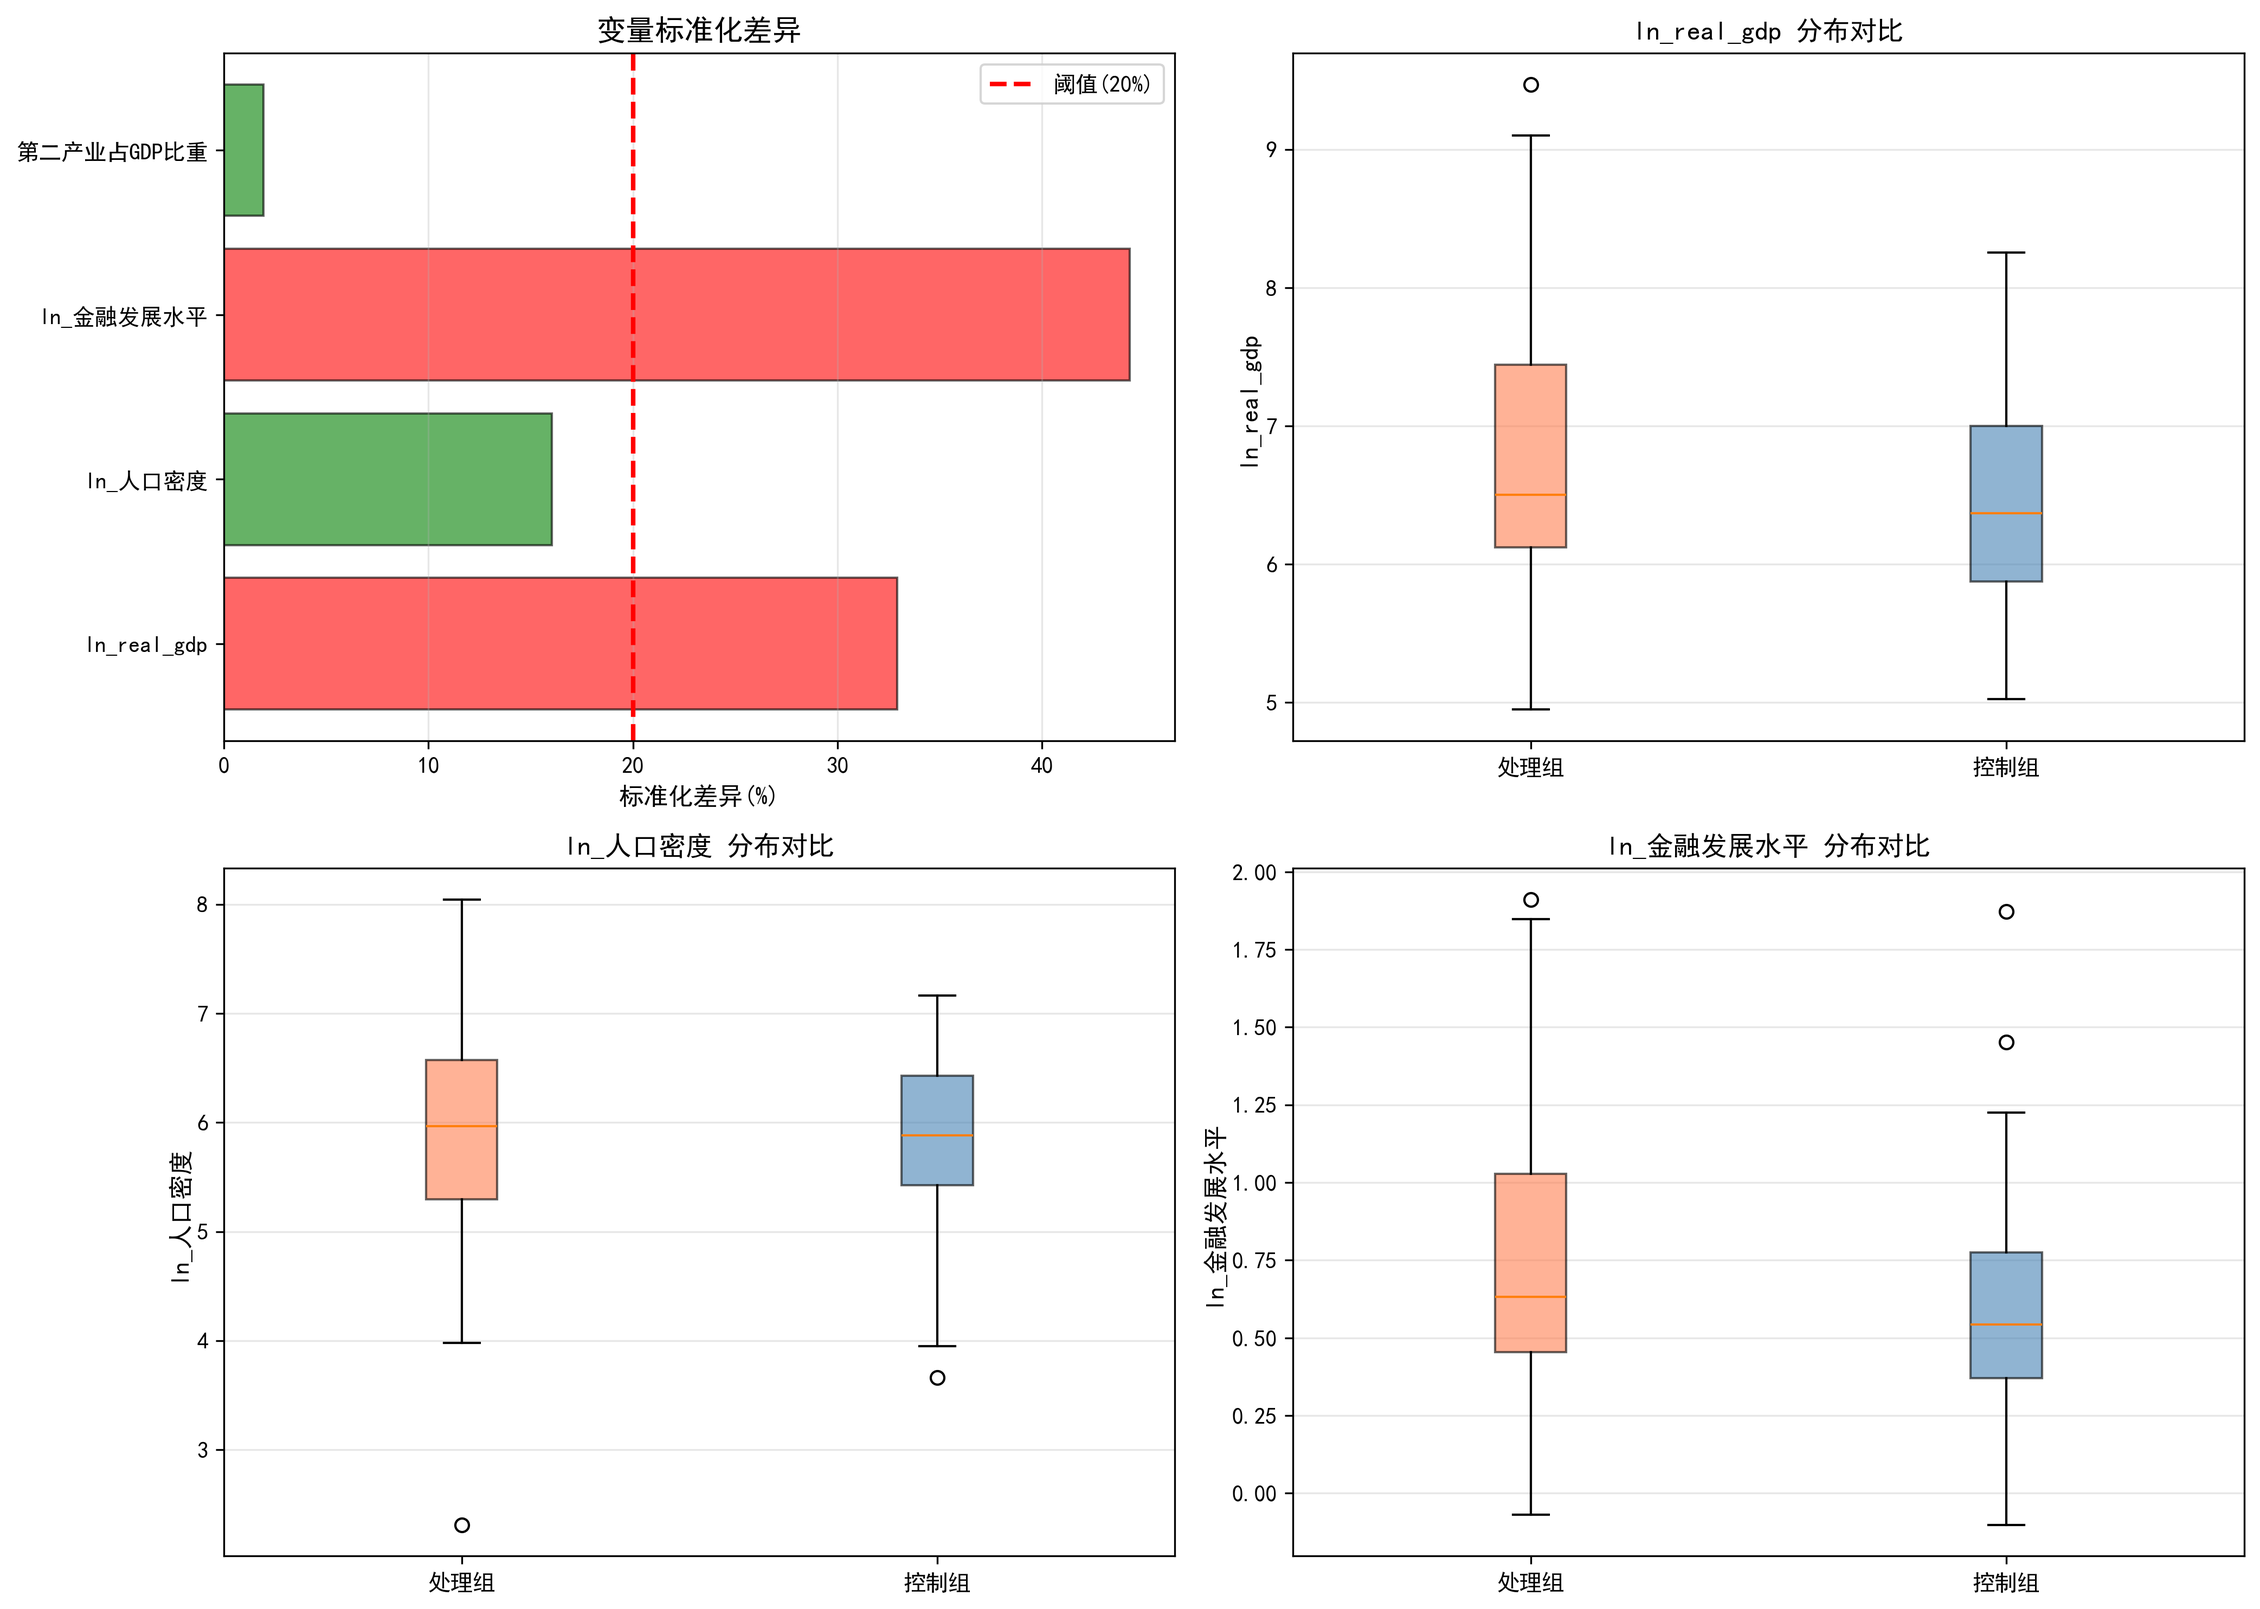
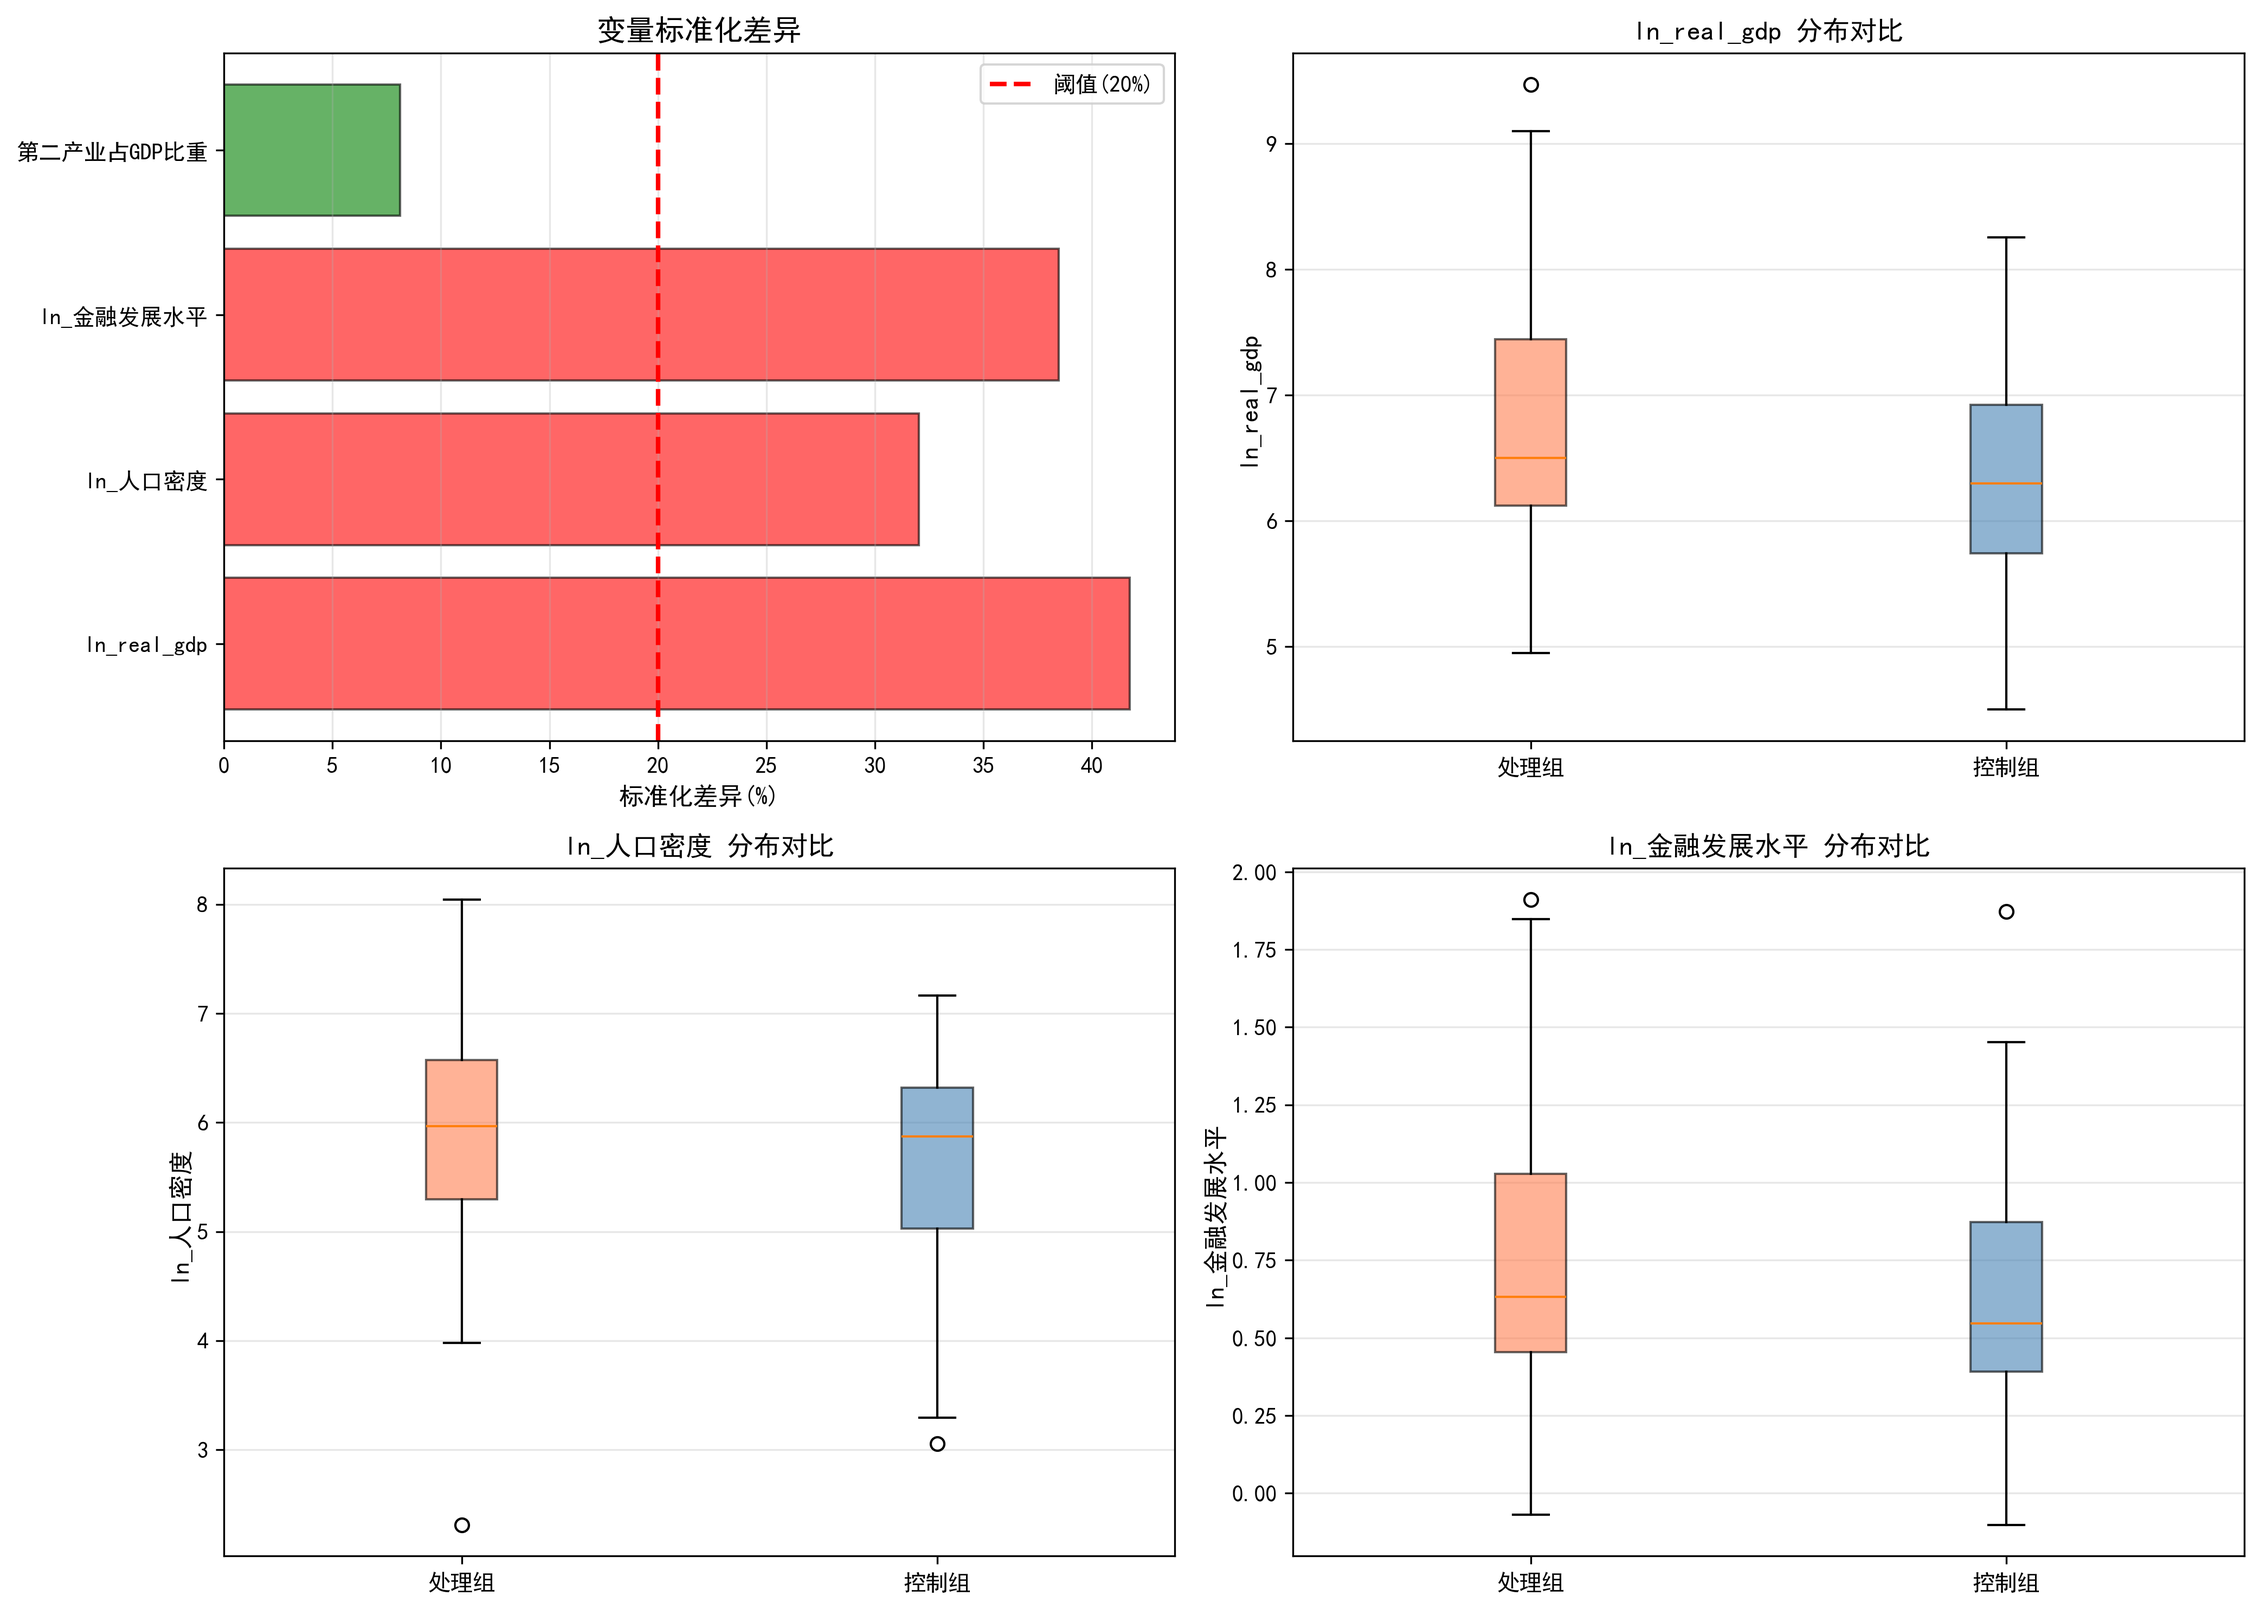
Fix PSM: Remove class_weight='balanced' for accurate propensity score estimation
- Removed class_weight='balanced' from LogisticRegression in PSM analysis
- This change ensures propensity scores reflect true treatment probabilities
- Updated balance test results: now showing 1/4 variables balanced (more realistic)
- Recalculated propensity scores and matching results
- Updated visualization plots and analysis report

Technical note: Using class_weight='balanced' in PSM artificially adjusts
sample weights and leads to biased propensity scores, which contradicts
the purpose of PSM to estimate actual treatment probabilities.

diff --git a/基期PSM分析_2009_四变量/psm_analysis.py b/基期PSM分析_2009_四变量/psm_analysis.py
@@ -126,7 +126,8 @@ class PSMAnalyzer:
         X_scaled = scaler.fit_transform(X)
 
         # 计算倾向得分（使用Logistic回归）
-        logit = LogisticRegression(max_iter=1000, class_weight='balanced', random_state=42)
+        # 注意：不使用class_weight='balanced'，以获得真实的倾向得分
+        logit = LogisticRegression(max_iter=1000, random_state=42)
         logit.fit(X_scaled, y)
 
         # 获取倾向得分
